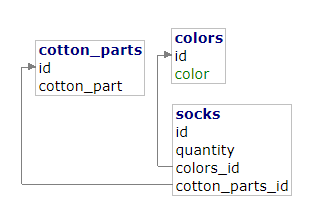
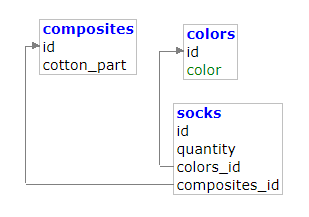
rename cottonPart model to Composite

Changed region(s): [[0.0583, 0.0833, 0.9612, 0.9167]]

diff --git a/src/main/java/com/home/sock/service/SockService.java b/src/main/java/com/home/sock/service/SockService.java
@@ -3,10 +3,10 @@ package com.home.sock.service;
 import com.home.sock.dto.SocksIncomeOutcomeDto;
 import com.home.sock.repository.SockRepository;
 import com.home.sock.models.Color;
-import com.home.sock.models.CottonPart;
+import com.home.sock.models.Composite;
 import com.home.sock.models.Sock;
 import com.home.sock.repository.ColorRepository;
-import com.home.sock.repository.CottonPartRepository;
+import com.home.sock.repository.CompositeRepository;
 import org.springframework.beans.factory.annotation.Autowired;
 import org.springframework.stereotype.Service;
 
@@ -17,7 +17,7 @@ public class SockService {
     @Autowired
     SockRepository sockRepository;
     @Autowired
-    CottonPartRepository cottonPartRepository;
+    CompositeRepository compositeRepository;
     @Autowired
     ColorRepository colorRepository;
 
@@ -29,19 +29,19 @@ public class SockService {
         else return colorToDb.get();
     }
 
-    public CottonPart findCottonPartOrSave(int cottonPart) {
-        Optional<CottonPart> cpToDb = this.cottonPartRepository.findOneByCottonPart(cottonPart);
+    public Composite findCottonPartOrSave(int cottonPart) {
+        Optional<Composite> cpToDb = this.compositeRepository.findOneByCottonPart(cottonPart);
         if (cpToDb.isEmpty())
-            return this.cottonPartRepository.save(new CottonPart(cottonPart));
+            return this.compositeRepository.save(new Composite(cottonPart));
         else return cpToDb.get();
     }
 
     public boolean income(SocksIncomeOutcomeDto dto) {
         Optional<Sock> Sock;
         Optional<Color> color = this.colorRepository.findOneByColor(dto.getColor());
-        Optional<CottonPart> cottonPart = this.cottonPartRepository.findOneByCottonPart(dto.getCottonPart());
-        if (color.isPresent() && cottonPart.isPresent()) {
-            Sock = this.sockRepository.findOneByColorAndCottonPart(color.get(), cottonPart.get());
+        Optional<Composite> composite = this.compositeRepository.findOneByCottonPart(dto.getCottonPart());
+        if (color.isPresent() && composite.isPresent()) {
+            Sock = this.sockRepository.findOneByColorAndComposite(color.get(), composite.get());
         } else {
             saveNewPosition(dto);
             return true;
@@ -50,24 +50,24 @@ public class SockService {
             Sock.get().incomeSocks(dto.getQuantity());
             this.sockRepository.save(Sock.get());
         } else {
-            this.sockRepository.save(new Sock(color.get(), dto.getQuantity(), cottonPart.get()));
+            this.sockRepository.save(new Sock(color.get(), dto.getQuantity(), composite.get()));
         }
         return true;
     }
 
     public void saveNewPosition(SocksIncomeOutcomeDto dto) {
         Color color = findColorOrSave(dto.getColor());
-        CottonPart cottonPart = findCottonPartOrSave(dto.getCottonPart());
-        Sock Sock = new Sock(color, dto.getQuantity(), cottonPart);
+        Composite composite = findCottonPartOrSave(dto.getCottonPart());
+        Sock Sock = new Sock(color, dto.getQuantity(), composite);
         this.sockRepository.save(Sock);
     }
 
     public boolean outcome(SocksIncomeOutcomeDto dto) {
         Optional<Sock> Sock;
         Optional<Color> color = this.colorRepository.findOneByColor(dto.getColor());
-        Optional<CottonPart> cottonPart = this.cottonPartRepository.findOneByCottonPart(dto.getCottonPart());
-        if (color.isPresent() && cottonPart.isPresent()) {
-            Sock = this.sockRepository.findOneByColorAndCottonPart(color.get(), cottonPart.get());
+        Optional<Composite> composite = this.compositeRepository.findOneByCottonPart(dto.getCottonPart());
+        if (color.isPresent() && composite.isPresent()) {
+            Sock = this.sockRepository.findOneByColorAndComposite(color.get(), composite.get());
         } else {
             return false;
         }

diff --git a/src/main/java/com/home/sock/repository/SockRepository.java b/src/main/java/com/home/sock/repository/SockRepository.java
@@ -1,7 +1,7 @@
 package com.home.sock.repository;
 
 import com.home.sock.models.Color;
-import com.home.sock.models.CottonPart;
+import com.home.sock.models.Composite;
 import com.home.sock.models.Sock;
 import org.springframework.data.jpa.repository.JpaRepository;
 import org.springframework.data.jpa.repository.Query;
@@ -12,19 +12,19 @@ public interface SockRepository extends JpaRepository<Sock, Long> {
 
   @Query("SELECT sum(s.quantity) FROM Sock s " +
           "INNER JOIN Color c ON s.color = c.id " +
-          "INNER JOIN CottonPart cp ON s.cottonPart = cp.id " +
-          "WHERE c.color.color = ?1 AND cp.cottonPart.cottonPart < ?2 ")
+          "INNER JOIN Composite cp ON s.composite = cp.id " +
+          "WHERE s.color.color = ?1 AND s.composite.cottonPart < ?2 ")
   Integer findByColorAndCottonPartLessThan(String color, int cottonPart);
   @Query("SELECT sum(s.quantity) FROM Sock s " +
           "INNER JOIN Color c ON s.color = c.id " +
-          "INNER JOIN CottonPart cp ON s.cottonPart = cp.id " +
-          "WHERE c.color.color = ?1 AND cp.cottonPart.cottonPart > ?2 ")
+          "INNER JOIN Composite cp ON s.composite = cp.id " +
+          "WHERE s.color.color = ?1 AND s.composite.cottonPart > ?2 ")
   Integer findByColorAndCottonPartGreaterThan(String color, int cottonPart);
   @Query("SELECT sum(s.quantity) FROM Sock s " +
           "INNER JOIN Color c ON s.color = c.id " +
-          "INNER JOIN CottonPart cp ON s.cottonPart = cp.id " +
-          "WHERE c.color.color = ?1 AND cp.cottonPart.cottonPart = ?2")
+          "INNER JOIN Composite cp ON s.composite = cp.id " +
+          "WHERE s.color.color = ?1 AND s.composite.cottonPart = ?2")
   Integer findByColorAndCottonPartEquals(String color, int cottonPart);
 
-  Optional<Sock> findOneByColorAndCottonPart(Color color, CottonPart cotton_part);
+  Optional<Sock> findOneByColorAndComposite(Color color, Composite composite);
 }

diff --git a/src/main/java/com/home/sock/models/Composite.java b/src/main/java/com/home/sock/models/Composite.java
@@ -4,8 +4,8 @@ import javax.persistence.*;
 import java.util.Set;
 
 @Entity
-@Table(name = "cotton_parts")
-public class CottonPart {
+@Table(name = "composites")
+public class Composite {
     @Column(nullable = false)
     @Id
     @GeneratedValue(strategy = GenerationType.SEQUENCE, generator = "composite_generator")
@@ -15,19 +15,19 @@ public class CottonPart {
     @Column(name = "cotton_part")
     private int cottonPart;
 
-    @OneToMany(mappedBy = "cottonPart", cascade = CascadeType.ALL)
+    @OneToMany(mappedBy = "composite", cascade = CascadeType.ALL)
     private Set<Sock> socks;
     public long getId() {
         return id;
     }
 
-    public CottonPart() {
+    public Composite() {
     }
-    public CottonPart(int cottonPart) {
+    public Composite(int cottonPart) {
         this.cottonPart = cottonPart;
     }
 
-    public CottonPart(int cottonPart, Set<Sock> socks) {
+    public Composite(int cottonPart, Set<Sock> socks) {
         this.cottonPart = cottonPart;
         this.socks = socks;
     }

diff --git a/src/main/java/com/home/sock/models/Sock.java b/src/main/java/com/home/sock/models/Sock.java
@@ -23,18 +23,18 @@ public class Sock implements Serializable {
   private int quantity;
 
   @ManyToOne(cascade = CascadeType.ALL, optional = false)
-  @JoinColumn(name = "cotton_parts_id")
-  private CottonPart cottonPart;
+  @JoinColumn(name = "composites_id")
+  private Composite composite;
 
 
   public Sock() {
   }
 
 
-  public Sock(Color color, int quantity, CottonPart cottonPart) {
+  public Sock(Color color, int quantity, Composite composite) {
     this.color = color;
     this.quantity = quantity;
-    this.cottonPart = cottonPart;
+    this.composite = composite;
   }
 
   public long getId() {
@@ -61,12 +61,12 @@ public class Sock implements Serializable {
     this.quantity = quantity;
   }
 
-  public CottonPart getCottonPart() {
-    return cottonPart;
+  public Composite getComposite() {
+    return composite;
   }
 
-  public void setCottonPart(CottonPart cottonPart) {
-    this.cottonPart = cottonPart;
+  public void setComposite(Composite composite) {
+    this.composite = composite;
   }
 
 

diff --git a/src/main/java/com/home/sock/repository/CompositeRepository.java b/src/main/java/com/home/sock/repository/CompositeRepository.java
@@ -1,0 +1,10 @@
+package com.home.sock.repository;
+
+import com.home.sock.models.Composite;
+import org.springframework.data.jpa.repository.JpaRepository;
+
+import java.util.Optional;
+
+public interface CompositeRepository extends JpaRepository<Composite, Long> {
+    Optional<Composite> findOneByCottonPart(int cotton_part);
+}
